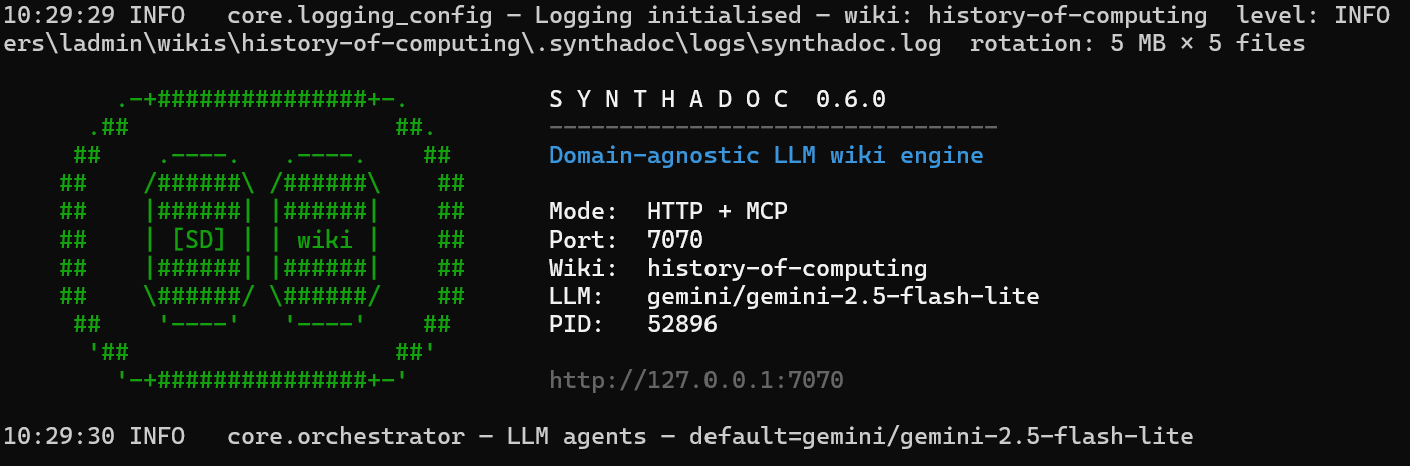
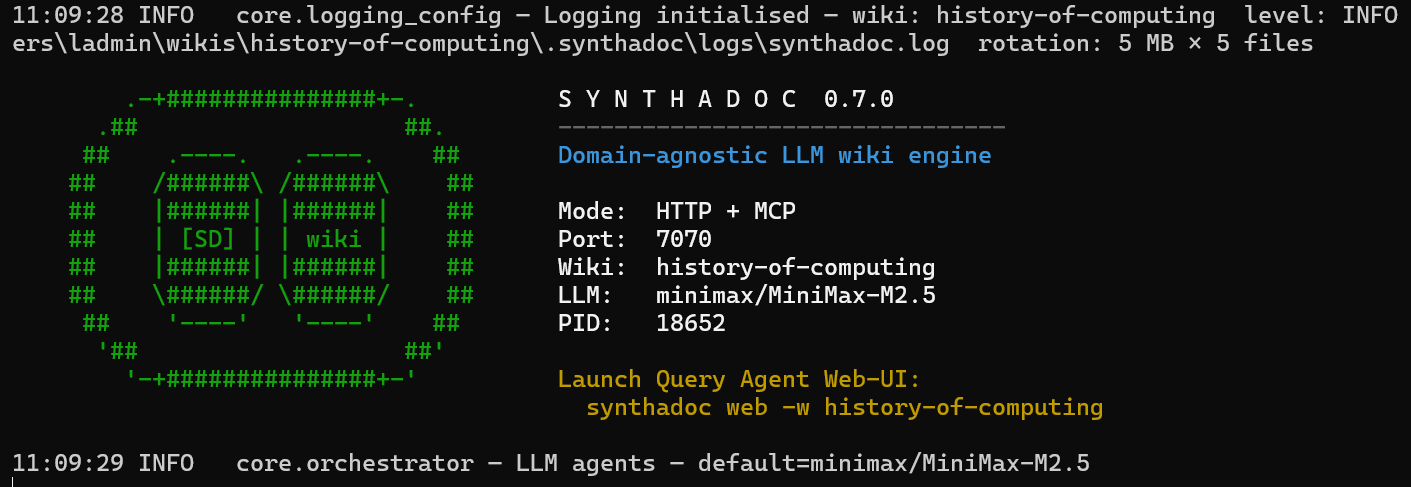
[v0.7.0] release prep (#133)
* chore: bump version to v0.7.0 and update docs

- Version bump: VERSION, obsidian manifests, README badge/logo, quick-start header, design.md
- README: add local Web UI note in Creating Your Own Wiki section
- README: clarify Web Chat UI is local-only, not network-accessible
- Quick-start Step 22: correct mode badge description (set at session open, not mid-session)
- Quick-start Step 22: remove redundant Stopping section
- Quick-start Step 23: fix --no-cache description (CLI only; web UI uses cache clear)
- design.md: add Action Agent and expanded hints to v0.7.0 release index
- design.md: fix session/localStorage accuracy in Web Chat section
- badges.json: update cli_commands from 49 to 63 (web + schedule history + others added in v0.7.0)
- bump_version.py: also patch design.md version on future bumps

* chore: sync obsidian plugin package-lock.json to v0.7.0

* update synthadoc-serve.png

* test(action_agent): add coverage for wiki_status, schedule_history, and detection patterns

Add 13 tests for methods introduced in v0.7.0: _do_wiki_status (with and
without audit.db), _do_schedule_history (empty and with runs), orphan/
contradiction/adversarial/lint-report/wiki-status detect() patterns, and
lint-op normalisation in schedule_add.  Pushes total coverage 89.54% →
90.11%, clearing the ≥90% CI gate.

Also update coverage badge to 90% and include the updated v0.7.0
architecture diagram PNG.

diff --git a/tests/agents/test_action_agent.py b/tests/agents/test_action_agent.py
@@ -207,6 +207,122 @@ async def test_none_action_returns_none(tmp_path):
     assert result is None
 
 
+# ── schedule_history dispatch ────────────────────────────────────────────────
+
+@pytest.mark.asyncio
+async def test_schedule_history_no_audit_db(tmp_path):
+    """Returns graceful message when audit.db doesn't exist yet."""
+    extraction = '{"action": "schedule_history", "params": {}}'
+    agent = _make_agent(tmp_path, extraction)
+    result = await agent.run("show scheduler history")
+    assert result is not None
+    assert result.success is True
+    assert "no scheduled run history" in result.message.lower()
+
+
+@pytest.mark.asyncio
+async def test_schedule_history_with_runs(tmp_path):
+    extraction = '{"action": "schedule_history", "params": {}}'
+    agent = _make_agent(tmp_path, extraction)
+    audit_path = tmp_path / ".synthadoc" / "audit.db"
+    audit_path.parent.mkdir(parents=True, exist_ok=True)
+    audit_path.touch()
+    mock_runs = [
+        {"run_id": "r1", "op": "lint run", "started_at": "2026-06-04T09:00:00",
+         "duration_s": 12.5, "status": "success", "error": None},
+        {"run_id": "r2", "op": "ingest", "started_at": "2026-06-04T10:00:00",
+         "duration_s": None, "status": "failed", "error": "timeout"},
+    ]
+    with patch("synthadoc.storage.log.AuditDB") as MockAudit:
+        inst = AsyncMock()
+        inst.init = AsyncMock()
+        inst.list_scheduled_runs = AsyncMock(return_value=mock_runs)
+        MockAudit.return_value = inst
+        result = await agent.run("show scheduler history")
+    assert result is not None
+    assert result.success is True
+    assert "r1" in result.message
+    assert "lint run" in result.message
+    assert "❌" in result.message  # failed run shows error icon
+
+
+# ── wiki_status dispatch ──────────────────────────────────────────────────────
+
+@pytest.mark.asyncio
+async def test_wiki_status_no_audit_db(tmp_path):
+    """Falls back to page count when audit.db absent."""
+    extraction = '{"action": "wiki_status", "params": {}}'
+    agent = _make_agent(tmp_path, extraction)
+    agent._orch._store.list_pages.return_value = ["page-a", "page-b"]
+    result = await agent.run("show wiki status")
+    assert result is not None
+    assert result.success is True
+    assert "2 pages" in result.message
+
+
+@pytest.mark.asyncio
+async def test_wiki_status_with_audit_db(tmp_path):
+    extraction = '{"action": "wiki_status", "params": {}}'
+    agent = _make_agent(tmp_path, extraction)
+    audit_path = tmp_path / ".synthadoc" / "audit.db"
+    audit_path.parent.mkdir(parents=True, exist_ok=True)
+    audit_path.touch()
+    counts = {"draft": 3, "active": 42, "stale": 5, "contradicted": 2, "archived": 1}
+    with patch("synthadoc.storage.log.AuditDB") as MockAudit:
+        inst = AsyncMock()
+        inst.init = AsyncMock()
+        inst.get_lifecycle_summary = AsyncMock(return_value=counts)
+        MockAudit.return_value = inst
+        result = await agent.run("show wiki status")
+    assert result is not None
+    assert result.success is True
+    assert "active" in result.message
+    assert "42" in result.message
+    assert "53 pages" in result.message
+
+
+# ── detect: orphan / contradiction / lint-report ──────────────────────────────
+
+def test_detect_orphan_pages_query(tmp_path):
+    agent = _make_agent(tmp_path, "{}")
+    assert agent.detect("What pages in this wiki domain are orphan pages?") is True
+
+def test_detect_show_contradictions(tmp_path):
+    agent = _make_agent(tmp_path, "{}")
+    assert agent.detect("list contradicted pages") is True
+
+def test_detect_adversarial_pages(tmp_path):
+    agent = _make_agent(tmp_path, "{}")
+    assert agent.detect("are there any adversarial pages?") is True
+
+def test_detect_lint_report(tmp_path):
+    agent = _make_agent(tmp_path, "{}")
+    assert agent.detect("show lint report") is True
+
+def test_detect_wiki_status(tmp_path):
+    agent = _make_agent(tmp_path, "{}")
+    assert agent.detect("show synthadoc status") is True
+
+def test_detect_what_contradictions(tmp_path):
+    agent = _make_agent(tmp_path, "{}")
+    assert agent.detect("what contradictions exist?") is True
+
+
+# ── schedule_add lint normalisation ──────────────────────────────────────────
+
+@pytest.mark.asyncio
+async def test_schedule_add_normalises_lint_op(tmp_path):
+    """'lint' op is normalised to 'lint run' before saving."""
+    extraction = ('{"action": "schedule_add", "params": {'
+                  '"op": "lint", "cron": "0 21 * * *",'
+                  '"schedule_description": "every night at 9 PM"}}')
+    agent = _make_agent(tmp_path, extraction)
+    result = await agent.run("Schedule lint run every night at 9 PM")
+    assert result is not None
+    assert result.success is True
+    assert "lint run" in result.message
+
+
 # ── format helper ─────────────────────────────────────────────────────────────
 
 def test_format_schedule_list_empty():

diff --git a/scripts/bump_version.py b/scripts/bump_version.py
@@ -94,8 +94,15 @@ def main() -> None:
         f"**Version: v{new_version} (Community Edition)**",
     )
 
+    # 5. Design document version header
+    _patch_text(
+        ROOT / "docs" / "design.md",
+        f"**Version:** {old_version}  ",
+        f"**Version:** {new_version}  ",
+    )
+
     print("Done. Remember to:")
-    print("  git add VERSION obsidian-plugin/manifest.json obsidian-plugin/package.json README.md docs/user-quick-start-guide.md")
+    print("  git add VERSION obsidian-plugin/manifest.json obsidian-plugin/package.json README.md docs/user-quick-start-guide.md docs/design.md")
     print(f"  git commit -m 'chore: bump version to {new_version}'")
     print("  git tag v" + new_version)
 

diff --git a/docs/design.md b/docs/design.md
@@ -1,6 +1,6 @@
 # Synthadoc — Design Document
 
-**Version:** 0.6.0  
+**Version:** 0.7.0  
 **Audience:** Product users who want to understand how the system works; developers adding features, skills, and plugins.
 
 **Document owners:** Paul Chen, William Johnason
@@ -2320,7 +2320,7 @@ Hint chips are rendered below each answer and in the empty-state panel before th
 
 The UI sends the full conversation history with each request as a `context` array (array of `{role, content}` objects). `QueryAgent` prepends this history to the system prompt so follow-up questions resolve correctly.
 
-History is stored in the browser's session state (JavaScript array); it is not persisted server-side. Closing the browser tab or refreshing the page starts a new conversation turn sequence (but `session_id` is preserved via `localStorage`).
+History is stored in the browser's React state (JavaScript array); it is not persisted server-side. Closing the browser tab or refreshing the page starts a new session — `POST /sessions` is called on every page load and a new `session_id` is assigned. Query history (the list of past questions shown in the sidebar) is persisted in `localStorage` keyed by origin, so it is shared across tabs in the same browser but isolated between different browsers.
 
 ### CLI command
 
@@ -2434,4 +2434,6 @@ Opens the default browser to `http://localhost:{port}/app`. The server must alre
 - **Web chat UI** — React SPA served at `GET /app` by the existing HTTP server (no extra port or process). Features: session-aware mode detection (`NEW_WIKI` / `EXPLORER` / `HEALTH_CHECK` / `POWER_USER`) based on wiki page count, prior session history, and stale-page presence; streaming answers via SSE; citation links; knowledge-gap callouts; contextual hint chips with windowed pool rotation; and multi-turn conversation history. Server maintains a lightweight in-memory session store (session_id, mode, hint cursor, last_hints).
 - **Session management and hint engine** — hint chip sets are derived from wiki index headings (new mode), recent citation graph (explorer mode), and uncovered BM25 top pages (power-user mode). Mode badge displayed in the UI header.
 - **Obsidian plugin streaming** — the Query command streams the answer into the modal as tokens arrive, matching the CLI and web UI streaming experience. No change to the Obsidian command count.
-- **`synthadoc web` CLI command** — opens the default browser to `http://localhost:{port}/app`; thin wrapper around OS open/start/xdg-open; server must already be running.
+- **`synthadoc web` CLI command** — opens the default browser to `http://localhost:{port}/app`; thin wrapper around OS open/start/xdg-open; server must already be running. The web UI is local-only; network access and authentication are not available in the Community Edition.
+- **Action Agent** — regex pre-filter + LLM extraction layer that detects action-intent queries ("run lint", "schedule ingest every night", "what pages are orphans?") and dispatches them to live Synthadoc operations without going through the query pipeline. Supports: `lint`, `lint_report`, `wiki_status`, `ingest`, `scaffold`, `schedule_add`, `schedule_list`, `schedule_history`, `lifecycle_activate`, `lifecycle_archive`, `lifecycle_restore`. Returns structured `ActionResult` rendered directly in the web UI and CLI.
+- **Expanded hint coverage** — built-in `hints.json` extended with lifecycle action hints ("Activate a draft page", "Archive a stale page", "Restore an archived page to draft"), orphan/contradiction/adversarial patterns, and "Show wiki status" in EXPLORER and HEALTH_CHECK modes.

diff --git a/docs/user-quick-start-guide.md b/docs/user-quick-start-guide.md
@@ -1,6 +1,6 @@
 # Synthadoc User Quick-Start Guide
 
-**Version: v0.6.0 (Community Edition)**
+**Version: v0.7.0 (Community Edition)**
 
 This guide walks you through the **History of Computing** demo wiki — a fully wired
 Synthadoc environment with 13 pre-built pages and six raw source files that cover every
@@ -1739,7 +1739,7 @@ The UI detects the state of your wiki and your session history, then adapts:
 | **Health Check** | ≥5 pages, returning user, ≥1 stale page in the wiki | Lifecycle review — suggests running lint or inspecting stale pages |
 | **Power User** | ≥5 pages, returning user, no stale pages | Context-sensitive follow-ups based on your last answer |
 
-The mode badge appears in the top-right corner of the chat interface. It reflects the wiki's current state — after you run lint and promote pages, a **Health Check** session will become **Power User** on the next session open.
+The mode badge appears in the top-right corner of the chat interface. It reflects the wiki's current state at the moment the session was created — the mode is determined when you open the browser tab, not updated mid-session. To see an updated mode after running lint and promoting pages, open a new browser tab.
 
 ### Asking questions
 
@@ -1754,10 +1754,6 @@ Below each answer:
 ### Multi-turn conversation
 
 Each question in a session builds on the previous ones. The UI maintains conversation context so follow-up questions like "What came before that?" resolve correctly against the previous answer.
-
-### Stopping
-
-Close the browser tab when done. The engine keeps running — use `synthadoc serve` background mode or stop the server manually when finished.
 
 ---
 
@@ -1787,7 +1783,7 @@ Use `--no-cache` when:
 - You are debugging a query or testing a new LLM provider
 - You suspect the cache entry is stale for any reason
 
-The `--no-cache` flag works on both `synthadoc query` and with the `synthadoc web` UI (pass it when starting the server, or use the flag on an individual `query` CLI call).
+The `--no-cache` flag is available on `synthadoc query`. The web chat UI always uses the cache automatically; use `synthadoc cache clear` to force a full refresh for all subsequent queries.
 
 ### Cache management
 
